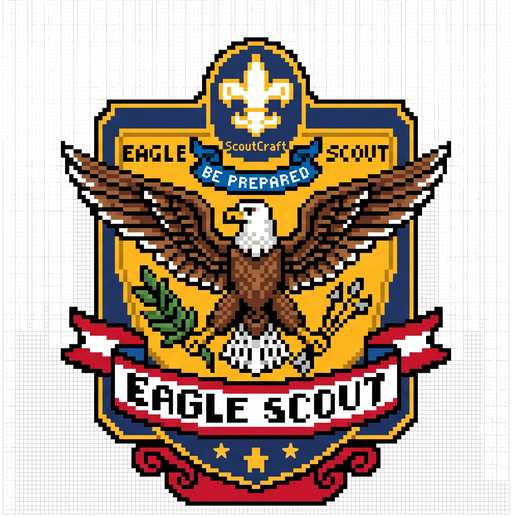
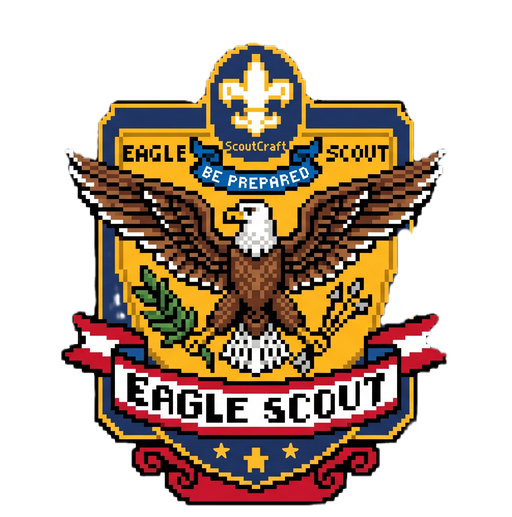
Add a touch menu for mobile so it stops covering the controls
Inventory/Backpack/Badges/Share Achievements were always-on-screen
buttons (#panelButtons, #btnQuit) sized and positioned for desktop —
on a phone the wide centered row sat right on top of the joystick and
action buttons, and the top-right cluster crowded the 3rd-person/
day-night toggles, making both hard to actually use. Both are now
hidden on touch and folded into one on-demand ☰ menu instead; desktop
is unaffected.

Also: fix the eagle emblem's floating-name-tag showing the old
fallback medallion forever if it got drawn before the artwork image
finished loading (same class of bug already fixed for the shirt patch
— just missing there), and swap in the newest eagle-scout-emblem.png
artwork with a cache-busting version bump.

Changed region(s): [[0.0938, 0.0619, 1.0, 0.9903], [0.0312, 0.4023, 0.4375, 0.9903], [0.2188, 0.5571, 0.25, 0.619]]

diff --git a/scoutcraft/main.js b/scoutcraft/main.js
@@ -1920,14 +1920,19 @@ const eagleEmblemImg = new Image();
 let eagleEmblemLoaded = false;
 eagleEmblemImg.onload = () => {
   eagleEmblemLoaded = true;
-  // The shirt patch may already have been baked (as a canvas texture) with the fallback art before
-  // this finished loading — force it to redraw now, same as any other rank-change refresh.
+  // The shirt patch and floating name tag may already have been baked (as canvas textures) with the
+  // fallback art before this finished loading — force both to redraw now, same as any other
+  // rank-change refresh. The achievement card needs no such fix: it's rebuilt from scratch every
+  // time the share screen opens, never cached.
   if(rankIndexFor(earnedBadges.size) === 7){
     if(characterMesh && characterMesh.userData.uniform) characterMesh.userData.uniform.lastRankIndex = -1;
     updateCharacterRankBadge();
+    if(myNameTag) myNameTag.lastKey = null;
   }
 };
-eagleEmblemImg.src = 'assets/eagle-scout-emblem.png';
+// ?v=2: bumped when the underlying artwork itself was replaced, so a browser that already cached
+// the old file under this same path picks up the new one instead of serving a stale copy.
+eagleEmblemImg.src = 'assets/eagle-scout-emblem.png?v=2';
 function drawRankBadge(ctx, cx, cy, radius, rankIndex){
   if(rankIndex<=0){
     // No rank yet — a plain disc, nothing earned to put on it.
@@ -8749,6 +8754,17 @@ if(isTouchDevice){
   bindTouchButton('btnCrawl', ()=>{ keys['ControlLeft']=true; crawlBtn.classList.add('active'); }, ()=>{ keys['ControlLeft']=false; crawlBtn.classList.remove('active'); });
   bindTouchButton('btn3p', ()=>{ if(locked) thirdPerson = !thirdPerson; });
   bindTouchButton('btnTime', ()=>{ if(locked) cycleTimeMode(); });
+
+  // The Inventory/Backpack/Badges/Share buttons that sit fixed on screen for desktop (#panelButtons,
+  // #btnQuit — hidden on touch, see CSS) fold into this one on-demand menu on phones instead, so
+  // nothing's left permanently covering the joystick or action buttons. Each row closes the menu
+  // itself right after acting, same as tapping anywhere else while a modal is open would.
+  const touchMenu = document.getElementById('touchMenu');
+  bindTouchButton('btnMenu', ()=>{ touchMenu.hidden = !touchMenu.hidden; });
+  bindTouchButton('tmItems', ()=>{ touchMenu.hidden = true; if(locked && !isDead) openItems(); });
+  bindTouchButton('tmBackpack', ()=>{ touchMenu.hidden = true; if(locked && !isDead) openBackpackStorage(); });
+  bindTouchButton('tmSash', ()=>{ touchMenu.hidden = true; if(locked && !isDead) openSash(); });
+  bindTouchButton('tmQuit', ()=>{ touchMenu.hidden = true; if(locked && !isDead) quitGame(); });
 }
 
 // ---------- Debug panel (Alt+Shift+D) ----------

diff --git a/scoutcraft/index.html b/scoutcraft/index.html
@@ -109,6 +109,17 @@
   #btnCrawl.active{background:rgba(255,255,255,0.4);}
   #btn3p{right:16px;top:10px;width:44px;height:44px;font-size:16px;z-index:11;}
   #btnTime{right:66px;top:10px;width:44px;height:44px;font-size:16px;z-index:11;}
+  #btnMenu{right:116px;top:10px;width:44px;height:44px;font-size:20px;z-index:11;}
+  /* The Inventory/Backpack/Badges/Share row that's always on screen on desktop (see #panelButtons
+     and #btnQuit below) would sit right on top of the joystick and action buttons on a phone —
+     tucked behind this one button instead, opened on demand, so nothing blocks the controls needed
+     to actually move/attack/place while it's closed. */
+  #touchMenu{position:fixed;top:60px;right:16px;z-index:12;pointer-events:auto;
+    background:rgba(0,0,0,0.8);border:2px solid rgba(255,255,255,0.4);border-radius:10px;
+    padding:8px;display:flex;flex-direction:column;gap:6px;}
+  #touchMenu button{background:rgba(255,255,255,0.12);color:#fff;border:1px solid rgba(255,255,255,0.3);
+    border-radius:8px;padding:9px 16px;font-size:14px;white-space:nowrap;text-align:left;}
+  body.touch-device #panelButtons, body.touch-device #btnQuit{display:none;}
   #chatLog{position:fixed;left:10px;bottom:96px;width:min(420px,calc(100vw - 20px));max-height:200px;overflow-y:auto;display:flex;flex-direction:column;gap:2px;z-index:12;pointer-events:none;}
   .chatLine{background:rgba(0,0,0,0.45);color:#fff;font-size:13px;padding:3px 8px;border-radius:4px;text-shadow:0 0 3px #000;word-break:break-word;align-self:flex-start;max-width:100%;}
   .chatLine b{color:#8fd0ee;}
@@ -315,6 +326,13 @@
   <button id="btnCrawl" class="touchBtn" aria-label="Hold to crawl">CRAWL</button>
   <button id="btn3p" class="touchBtn" aria-label="Toggle third person">3rd</button>
   <button id="btnTime" class="touchBtn" aria-label="Cycle day/night">🕐</button>
+  <button id="btnMenu" class="touchBtn" aria-label="Menu">☰</button>
+  <div id="touchMenu" hidden>
+    <button id="tmItems">📦 Inventory</button>
+    <button id="tmBackpack">🎒 Backpack</button>
+    <button id="tmSash">🎖 Badges</button>
+    <button id="tmQuit">🏅 Share Achievements</button>
+  </div>
 </div>
 <div id="craftingModal" hidden>
   <div id="craftingPanel">

diff --git a/scoutcraft/README.md b/scoutcraft/README.md
@@ -79,8 +79,9 @@ The front page says so directly, but worth repeating here too: ScoutCraft is des
 
 - Left thumb: on-screen joystick to move (push all the way to the edge to sprint)
 - Right side of the screen: drag to look around
-- ⛏ — break / attack, ▦ — place / interact (open a table, toggle a window or door, light a fire), **JUMP**, **3rd** — third-person camera
-- Tap a hotbar slot to select it, tap it again (or the **📦 Inventory (I)** button) to change what it holds
+- ⛏ — break / attack, ▦ — place / interact (open a table, toggle a window or door, light a fire), **JUMP**, **3rd** — third-person camera, 🕐 — cycle day/night
+- Tap a hotbar slot to select it, tap it again to change what it holds
+- **☰** (top right) opens a small menu with Inventory, Backpack, Badges, and Share Achievements — the same four things that sit as their own always-on-screen buttons on desktop (see below), tucked behind one button here instead so they're never covering the joystick or action buttons underneath. Tapping any row runs that action and closes the menu again.
 
 ## Inventory & hotbar
 
